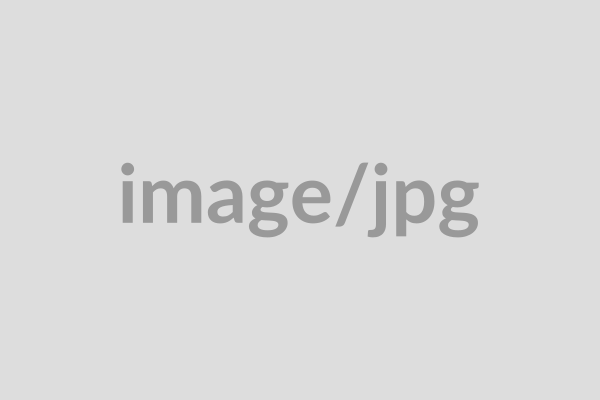
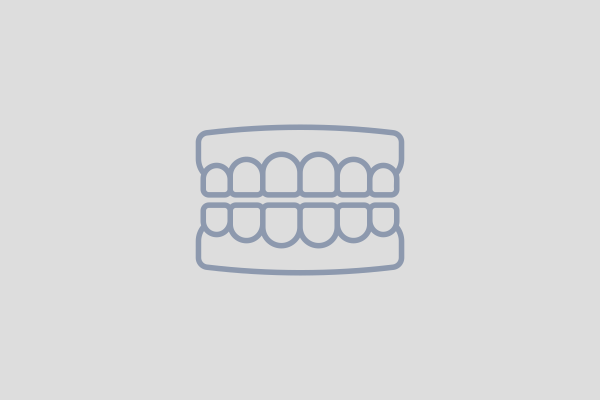
enhancement: various changes in analyze tab
Draw (labels and confidence) options
| new placeholder image
| new button style

Changed region(s): [[0.18, 0.3, 0.81, 0.69]]

diff --git a/app/(tabs)/analyze.tsx b/app/(tabs)/analyze.tsx
@@ -1,12 +1,12 @@
-import { StyleSheet, Alert, Dimensions } from 'react-native';
+import { StyleSheet, Alert } from 'react-native';
 
-import { useState } from 'react';
+import { useEffect, useState } from 'react';
 
-import { Image, Modal, Platform } from 'react-native';
+import { Image, Modal } from 'react-native';
 
 import * as ImagePicker from 'expo-image-picker';
 
-import { SafeAreaView, View, ScrollView } from '@/components/Themed';
+import { View, ScrollView } from '@/components/Themed';
 import { XStack, YStack, Button } from 'tamagui';
 import { Loader } from '@/components/Loader';
 import { XCircle } from '@tamagui/lucide-icons';
@@ -14,12 +14,18 @@ import { XCircle } from '@tamagui/lucide-icons';
 import { analyzeTeeth } from '@/services/modelService';
 
 import { useAuth as useAuthy } from '@/contexts/AuthyContext';
-import { EmojiButton } from '@/components/EmojiButton';
 import { ResultView } from '@/components/ResultView';
 import { ClassCounts } from '@/components/ResultView';
-import { Slider, H1, Text, SizableText, Input } from 'tamagui';
+import { Slider, H1, Text, SizableText, Input, Checkbox } from 'tamagui';
+import { useNavigation } from 'expo-router';
 
+import { ImagePlus, Camera, Check as CheckIcon } from '@tamagui/lucide-icons';
 const BASE_URL = process.env.EXPO_PUBLIC_API_URL;
+
+interface DetectOptions {
+  drawConfidence: boolean 
+  drawNames: boolean 
+}
 
 export default function DetectScreen() {
 
@@ -31,7 +37,16 @@ export default function DetectScreen() {
   const [message, setMessage] = useState('');
   const [extreme, setExtreme] = useState('NONE');
   const [IoU, setIoU] = useState(0.25);
+
+  const [options, setOptions] = useState<DetectOptions>(
+    {drawConfidence: false, drawNames: false}
+  );
+
+  useEffect(() => {
+    
+  },[])
   
+  const navigation = useNavigation();
   const { authState } = useAuthy();
 
   const openCamera = async () => {
@@ -87,7 +102,7 @@ export default function DetectScreen() {
     setMessage('Analyzing Image');
     
     try {
-      const response = await analyzeTeeth(image, IoU);
+      const response = await analyzeTeeth(image, IoU, options);
       
       const resultImgPath = `${BASE_URL}/${response.plottedImagePath}`;
     
@@ -116,7 +131,7 @@ export default function DetectScreen() {
   const PLACEHOLDER = 'https://i.postimg.cc/FFcjKg98/placeholder.png'
 
   return (
-    <View style={styles.container}>
+    <ScrollView style={styles.container}>
 
       <Modal animationType='slide' presentationStyle='pageSheet' visible={visible}
         onRequestClose={() => setVisible(!visible)}>
@@ -131,21 +146,26 @@ export default function DetectScreen() {
 
       <H1>Select Image Source</H1>
       <View style={styles.separator} lightColor="#eee" darkColor="rgba(255,255,255,0.1)" />
-      <XStack justifyContent='space-evenly' gap="$5">
-        <EmojiButton emoji='📸' label='Camera' onPress={openCamera} />
-        <EmojiButton emoji='🖼' label='Gallery' onPress={select} />
+      <XStack justifyContent='space-evenly' gap="$3" paddingVertical="$2">
+        <Button variant="outlined"size="$5" flex={1} onPress={openCamera}>
+          <Camera size={24} />
+          <Text>Camera</Text>
+        </Button>
+        <Button variant="outlined" size="$5" flex={1} onPress={select}>
+          <ImagePlus size={24} />
+          <Text>Gallery</Text>
+        </Button>
       </XStack>
-
       <YStack backgroundColor={'$background025'} justifyContent='center' alignItems='center' marginVertical="$2" borderRadius={10}>
-          <Image source={{uri: image ? image : PLACEHOLDER }} style={styles.image} resizeMode='contain' />
+          <Image source={image ? { uri: image }: require('@/assets/images/placeholder.png')} style={styles.image} resizeMode='contain' />
       </YStack>
-      <XStack justifyContent='space-between'>
+      <XStack justifyContent='space-between' paddingTop="$3">
         <Text theme="alt1">IoU Threshold</Text>
         <Input disabled size="$1" value={IoU.toString()} onChangeText={val => handleIoU(parseFloat(val))} />
       </XStack>
       <XStack alignItems='center' gap="$2">
         <Text>0.05</Text>
-        <Slider defaultValue={[0.25]} value={[IoU]} max={1} min={0.05} step={0.05} flex={1} marginVertical="$5" onValueChange={(val) => handleIoU(val[0])}>
+        <Slider defaultValue={[0.25]} value={[IoU]} max={1} min={0.05} step={0.05} flex={1} marginVertical="$4" onValueChange={(val) => handleIoU(val[0])}>
           <Slider.Track>
             <Slider.TrackActive />
           </Slider.Track>
@@ -153,12 +173,34 @@ export default function DetectScreen() {
         </Slider>
         <Text>1</Text>
       </XStack>
+      <YStack gap="$2" paddingVertical="$3">
+        <XStack justifyContent='space-between'>
+          <Text>Draw Confidence</Text>
+          <Checkbox id='1' checked={options.drawConfidence} onCheckedChange={() => {
+            setOptions({...options, drawConfidence: !options.drawConfidence})
+          }}>
+            <Checkbox.Indicator>
+              <CheckIcon size={16} />
+            </Checkbox.Indicator>
+          </Checkbox>
+        </XStack>
+        <XStack justifyContent='space-between'>
+          <Text>Draw Labels</Text>
+          <Checkbox checked={options.drawNames} onCheckedChange={() => {
+            setOptions({...options, drawNames: !options.drawNames})
+          }}>
+            <Checkbox.Indicator>
+              <CheckIcon size={16} />
+            </Checkbox.Indicator>
+          </Checkbox>
+        </XStack>
+      </YStack>
       <XStack gap='$3'>
-        <Button onPress={() => setImage(null) } flex={1}>Reset</Button>
+        <Button onPress={() => console.log(options) } flex={1}>Reset</Button>
         <Button onPress={analyze} flex={1}>Analyze</Button>
       </XStack>
       { loading ?  <Loader message={message} /> : '' }
-    </View>
+    </ScrollView>
   );
 }
 

diff --git a/services/modelService.ts b/services/modelService.ts
@@ -9,7 +9,10 @@ const BASE_URL = process.env.EXPO_PUBLIC_API_URL;
  * Calls the api to do analysis on image.
  * @param {string} uri - uri of image file
  */
-export const analyzeTeeth = async (uri: string, iou: number = 0.25) => {
+export const analyzeTeeth = async (uri: string, iou: number = 0.25, {
+    drawConfidence = false,
+    drawNames = false
+ }) => {
 
     const formData = new FormData();
 
@@ -29,8 +32,8 @@ export const analyzeTeeth = async (uri: string, iou: number = 0.25) => {
                 },
                 params: {
                     threshold: iou,
-                    drawNames: false,
-                    drawConfidence: false
+                    drawNames: drawNames,
+                    drawConfidence: drawConfidence
                 }
             }
         )
